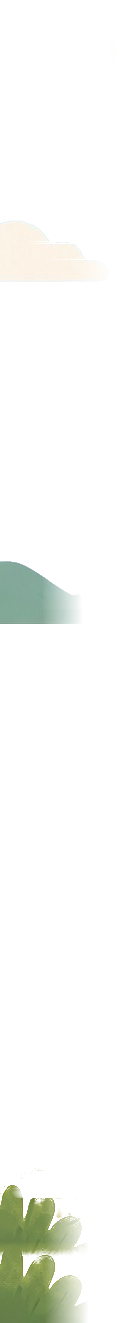
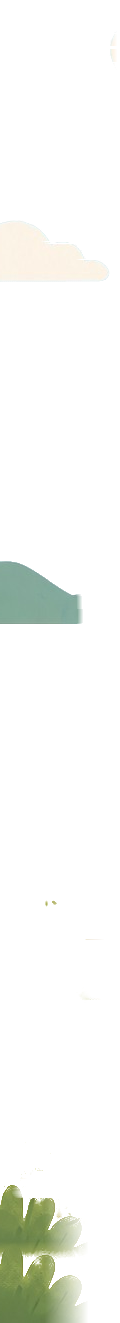
PC 집 양옆 풍경을 반복 없는 넓은 한 장으로(구름 · 들꽃 · 덤불), 방명록 답 카드 들어가자마자 보이게(마지막 노트 미리 읽어 둠)

diff --git a/src/data/guestbook.ts b/src/data/guestbook.ts
@@ -46,16 +46,44 @@ function saveMine(list: GuestNote[]) {
   }
 }
 
-export async function fetchBoard(): Promise<GuestBoard | null> {
-  if (!GUESTBOOK_URL) return null;
+/** 마지막으로 읽어 온 노트 — 방명록에 들어가자마자 먼저 보여 주고(시트에서 읽어 오는 데 2~3초), 새로 읽어 오면 바꿈 */
+const BOARD_KEY = 'jejulog-guest-board';
+export function loadCachedBoard(): GuestBoard | null {
   try {
-    const res = await fetch(GUESTBOOK_URL);
-    const d = await res.json();
-    return { count: Number(d.count) || 0, notes: Array.isArray(d.notes) ? d.notes : [] };
+    const v = JSON.parse(localStorage.getItem(BOARD_KEY) || 'null');
+    return v && Array.isArray(v.notes) ? v : null;
   } catch {
     return null;
   }
 }
+
+/** 같은 때 여러 곳에서 불러도 한 번만 읽음 */
+let inflight: Promise<GuestBoard | null> | null = null;
+export function fetchBoard(): Promise<GuestBoard | null> {
+  if (!GUESTBOOK_URL) return Promise.resolve(null);
+  if (inflight) return inflight;
+  inflight = (async () => {
+    try {
+      const res = await fetch(GUESTBOOK_URL);
+      const d = await res.json();
+      const b = { count: Number(d.count) || 0, notes: Array.isArray(d.notes) ? d.notes : [] };
+      try {
+        localStorage.setItem(BOARD_KEY, JSON.stringify(b));
+      } catch {
+        /* 저장 못 해도 그대로 */
+      }
+      return b;
+    } catch {
+      return null;
+    } finally {
+      inflight = null;
+    }
+  })();
+  return inflight;
+}
+
+// 웹진을 열 때 미리 읽어 둠 — 처음 방명록에 들어가도 바로 보이게
+if (typeof window !== 'undefined' && GUESTBOOK_URL) fetchBoard();
 
 /** 시트에 한 장 보내기 — 받았으면 true */
 async function send(note: GuestNote, lang: string): Promise<boolean> {

diff --git a/src/components/GuestNotes.tsx b/src/components/GuestNotes.tsx
@@ -3,7 +3,7 @@ import { useContent } from '../i18n';
 import { useReducedMotion } from '../lib/motion';
 import { absUrl, href } from '../lib/router';
 import { track } from '../lib/track';
-import { GUESTBOOK_URL, MAX_ANSWER, MAX_FREE, MAX_NAME, fetchBoard, loadMine, postNote, syncMine, type GuestBoard, type GuestNote } from '../data/guestbook';
+import { GUESTBOOK_URL, MAX_ANSWER, MAX_FREE, MAX_NAME, fetchBoard, loadCachedBoard, loadMine, postNote, syncMine, type GuestBoard, type GuestNote } from '../data/guestbook';
 import noteUrl from '../assets/guest-note.png';
 import '../styles/guest.css';
 
@@ -77,7 +77,7 @@ function AnswerTicker({ notes }: { notes: GuestNote[] }) {
 export function GuestNotes({ page = false }: { page?: boolean }) {
   const { ui, lang } = useContent();
   const t = ui.guest;
-  const [board, setBoard] = useState<GuestBoard | null>(null);
+  const [board, setBoard] = useState<GuestBoard | null>(loadCachedBoard);
   const [mine, setMine] = useState<GuestNote[]>(loadMine);
 
   const reload = () => {

diff --git a/src/pages/HousePage.tsx b/src/pages/HousePage.tsx
@@ -8,9 +8,9 @@ import houseUrl from '../assets/house-3d.webp';
 import houseBgUrl from '../assets/house-wide-bg.webp';
 import houseWideUrl from '../assets/house-3d-wide.webp';
 import housePaperUrl from '../assets/house-flat.jpg';
-// 넓은 화면 양옆 — 집 그림 끝의 풍경(하늘 · 바다 · 돌담 · 잔디)을 이어 붙이는 조각(반복) · 그림 끝에서 잘린 구름 · 언덕 · 덤불을 이어 주는 조각
-import sideLUrl from '../assets/house-side-l.png';
-import sideRUrl from '../assets/house-side-r.png';
+// 넓은 화면 양옆 — 집 그림 끝의 풍경(하늘 · 바다 · 돌담 · 잔디)을 넓게 이어 그린 한 장(구름 · 들꽃 · 덤불을 군데군데) · 그림 끝에서 잘린 구름 · 언덕 · 덤불을 이어 주는 조각
+import sideLUrl from '../assets/house-side-l.jpg';
+import sideRUrl from '../assets/house-side-r.jpg';
 import nearLUrl from '../assets/house-near-l.png';
 import nearRUrl from '../assets/house-near-r.png';
 
